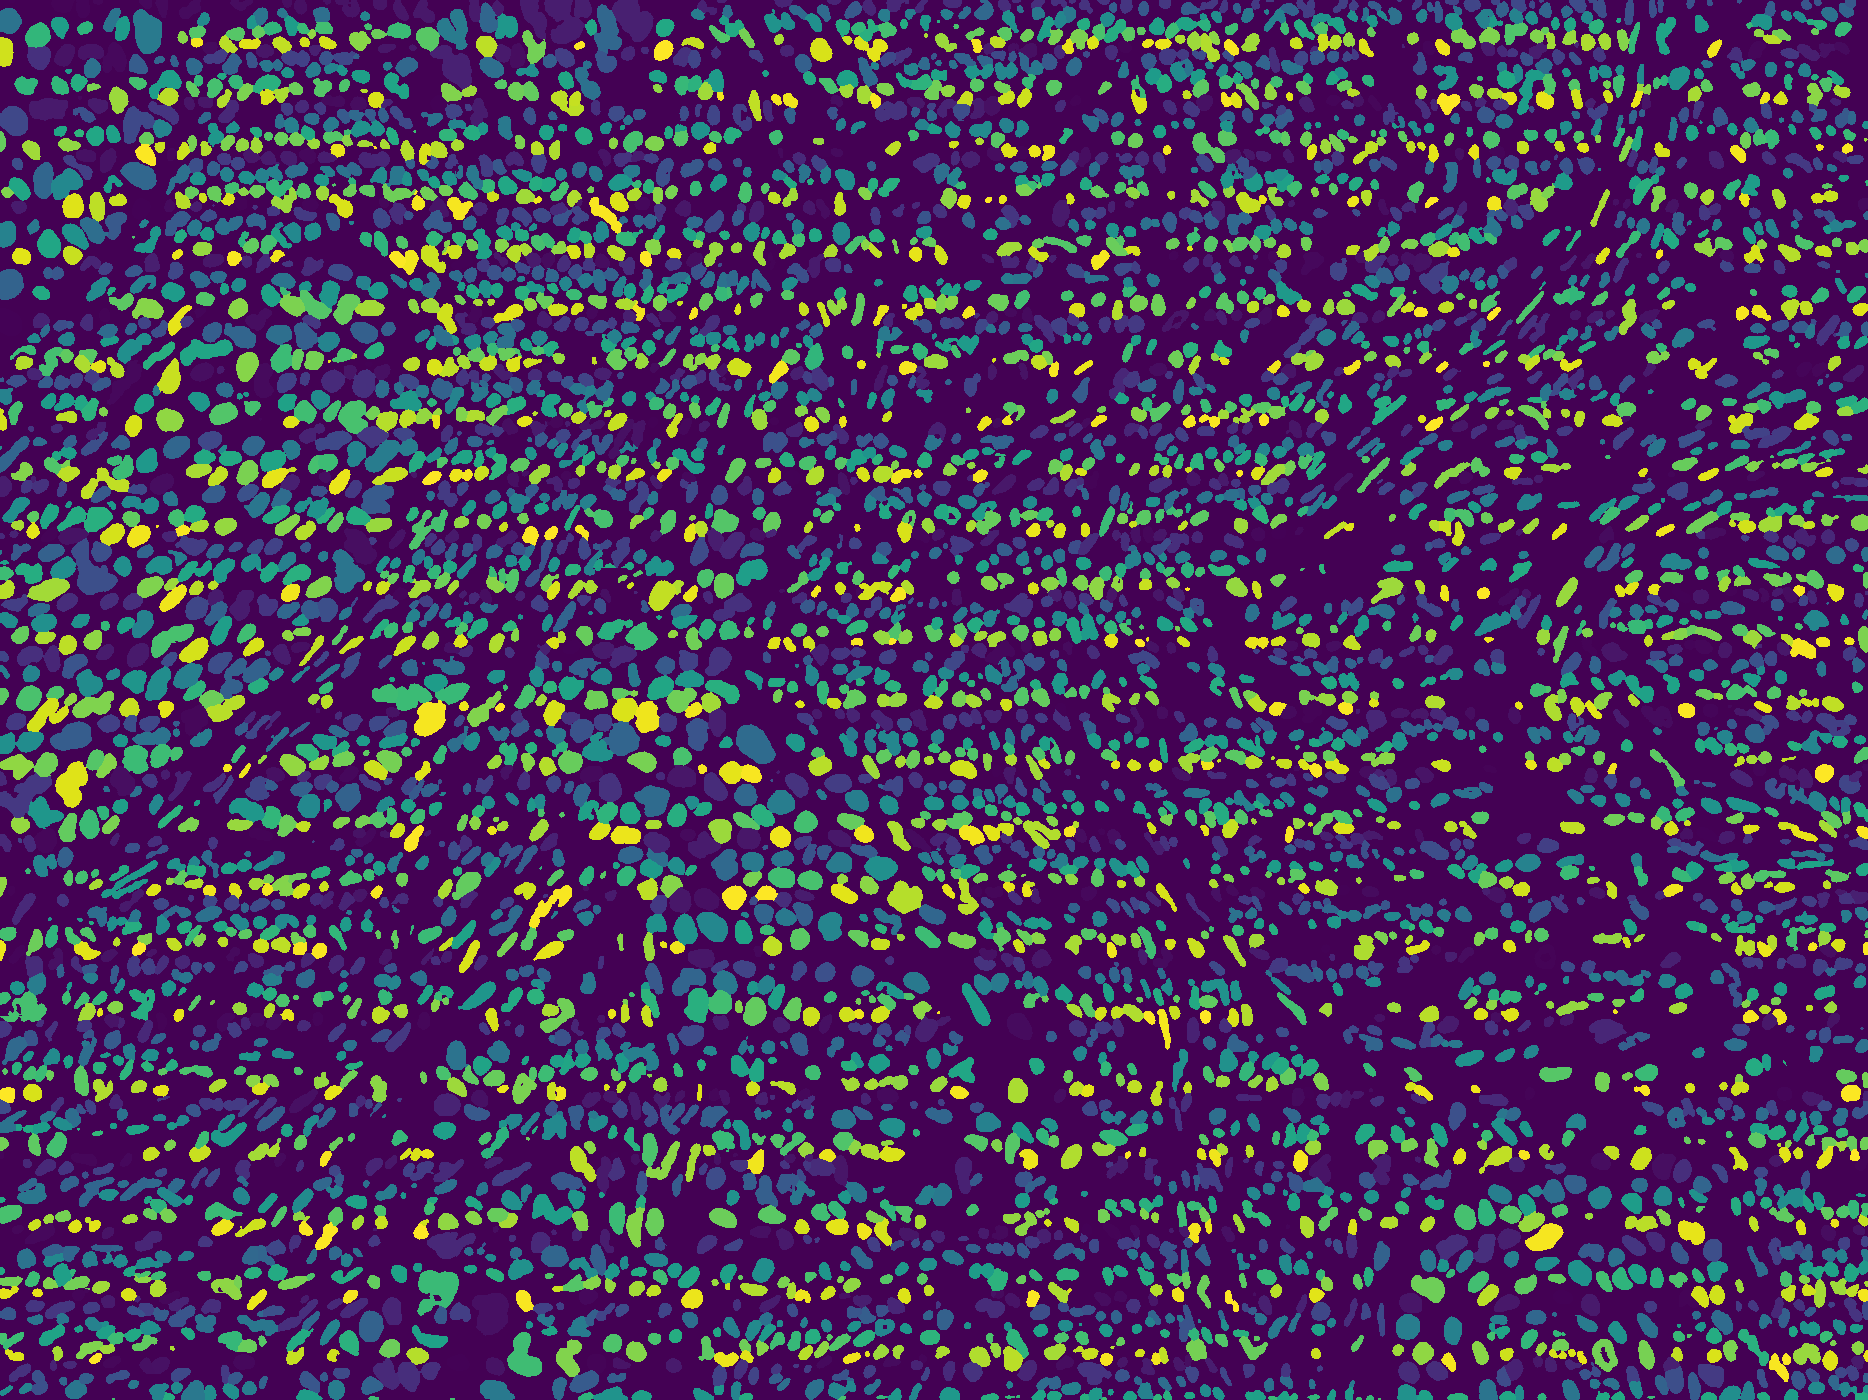
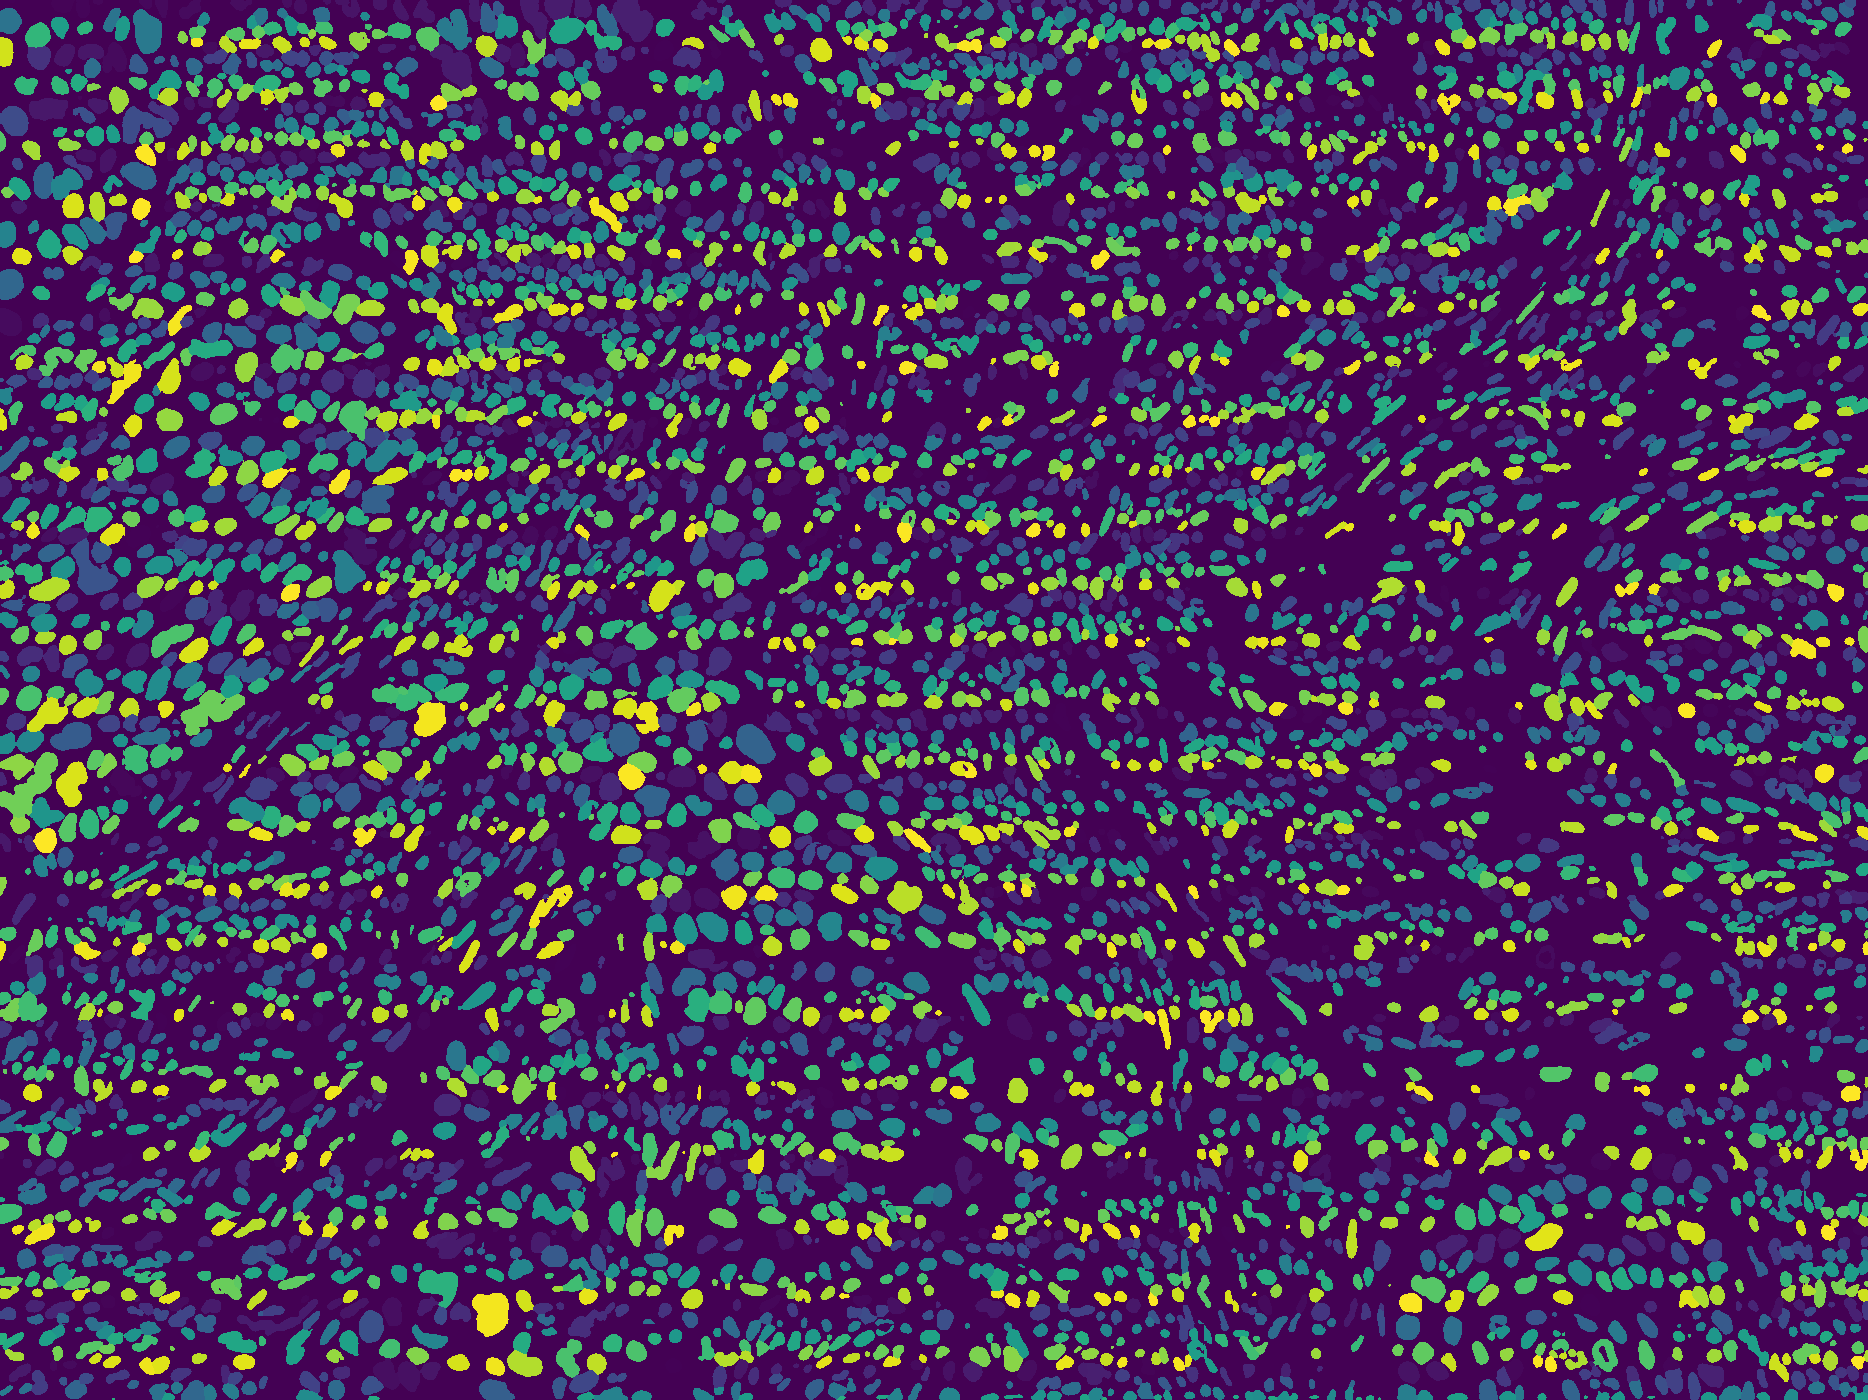
V1 Testée avec 2 chunks

diff --git a/stitch.py b/stitch.py
@@ -25,7 +25,7 @@ class Chunk(BaseModel):
         return self.y_end - self.y_start
 
     def chunk_image(self, image) -> np.array:
-        return image[self.x_start : self.x_end, self.y_start : self.y_end]
+        return image[self.y_start : self.y_end, self.x_start : self.x_end]
 
     def get_valid_xmax(self, overlap: int) -> int:
         """
@@ -82,7 +82,7 @@ def stitching(
         polygon, centroid = process_mask(
             chunk_1,
             label,
-            smooth=1,
+            smooth=0,
             convex_hull=False,
             offset=np.array([0, 0]),
             x_offset=0,
@@ -113,7 +113,7 @@ def stitching(
         polygon, centroid = process_mask(
             chunk_2_relabel,
             label,
-            smooth=1,
+            smooth=0,
             convex_hull=False,
             offset=np.array([0, 0]),
             x_offset=0,
@@ -123,10 +123,10 @@ def stitching(
         if centroid is None:
             continue
         x, y = centroid
-        x = (
-            x + coord_chunk_1.width - overlap_cols
-        )  # Ajustement de l'offset pour chunk_2
-        if x >= chunk_2_valid_x:  # centroïde dans la zone non-overlap de chunk_2
+        #x = (
+           # x + coord_chunk_1.width - overlap_cols
+        #)  # Ajustement de l'offset pour chunk_2
+        if x >= 128:  # centroïde dans la zone non-overlap de chunk_2
             chunk_2_data.polygons.append(polygon)
             chunk_2_data.centroids.append(centroid)
             chunk_2_data.valid_labels.add(label)
@@ -137,7 +137,7 @@ def stitching(
     print(
         f"Reconstruction dimensions: height={coord_chunk_1.height}, width={coord_chunk_1.width + coord_chunk_2.width - overlap_cols * 2}"
     )
-    reconstructed = np.zeros((1400, 1868), dtype=np.uint16)
+    reconstructed = np.zeros((coord_chunk_1.height, coord_chunk_1.width + coord_chunk_2.width - overlap_cols * 2), dtype=np.uint16)
     draw_polygons_in_mask(
         reconstructed, chunk_1_data.polygons, list(chunk_1_data.valid_labels)
     )
@@ -145,7 +145,7 @@ def stitching(
         reconstructed,
         chunk_2_data.polygons,
         list(chunk_2_data.valid_labels),
-        x_offset=coord_chunk_1.width - overlap_cols,
+        x_offset=coord_chunk_1.width - overlap_cols*2,
     )
 
     reconstructed = randomize_labels(reconstructed)
@@ -183,9 +183,11 @@ def process_mask(
 ):
     mask = np.zeros(src.shape, dtype=np.uint8)
     mask[src == label] = 255
-    kernel = disk(smooth)
-    mask = cv2.morphologyEx(mask, cv2.MORPH_OPEN, kernel)
-    mask = cv2.morphologyEx(mask, cv2.MORPH_CLOSE, kernel)
+
+    if smooth:
+        kernel = disk(smooth)
+        mask = cv2.morphologyEx(mask, cv2.MORPH_OPEN, kernel)
+        mask = cv2.morphologyEx(mask, cv2.MORPH_CLOSE, kernel)
     contours, _ = cv2.findContours(mask, cv2.RETR_EXTERNAL, cv2.CHAIN_APPROX_SIMPLE)
     contour = contours[0]
     if convex_hull:

diff --git a/create_test.py b/create_test.py
@@ -34,7 +34,7 @@ if __name__ == "__main__":
         streamer=ImageStreamer(
             config=StreamerConfig(
                 tile_size=128,
-                overlap=16,
+                overlap=8,
                 chunk_size=512,
                 n_features=2,
                 context=0,
@@ -56,18 +56,18 @@ if __name__ == "__main__":
     chunk_1 = Chunk(
         x_start=0,
         y_start=0,
-        x_end=h_chunk,
-        y_end=w_chunk + (tile_size * overlap_chunk),
+        y_end=h_chunk,
+        x_end=w_chunk + (tile_size * overlap_chunk),
     )
     chunk_2 = Chunk(
-        x_start=0,
-        y_start=w_chunk - (tile_size * overlap_chunk),
-        x_end=h_chunk,
-        y_end=w_chunk + (tile_size * overlap_chunk),
+        y_start=0,
+        x_start=w_chunk - (tile_size * overlap_chunk),
+        y_end=h_chunk,
+        x_end=w_chunk + w_chunk,
     )
 
-    print(chunk_1)
-    print(chunk_2)
+    print(chunk_1,chunk_1.height,chunk_1.width)
+    print(chunk_2,chunk_2.height,chunk_2.width)
 
     image_np = normalize(
         image_np, pmin=1, pmax=99.8, axis=(0, 1)
@@ -81,11 +81,13 @@ if __name__ == "__main__":
     print(nb_cell)
 
     chunk_1_np = chunk_1.chunk_image(image_np)
+    print(chunk_1_np.shape)
     # model.streamer.preview()
     output_chunk_1 = model.stream(chunk_1_np.copy())
     print(len(np.unique(output_chunk_1)) - 1)
 
     chunk_2_np = chunk_2.chunk_image(image_np)
+    print(chunk_2_np.shape)
     # model.streamer.preview()
     output_chunk_2 = model.stream(chunk_2_np.copy())
     print(len(np.unique(output_chunk_2)) - 1)
@@ -93,8 +95,8 @@ if __name__ == "__main__":
     cv2.imwrite("complete.png", (image_np * 255).astype(np.uint8))
     cv2.imwrite("chunk1.png", (chunk_1_np * 255).astype(np.uint8))
     cv2.imwrite("chunk2.png", (chunk_2_np * 255).astype(np.uint8))
-    output = cv2.applyColorMap(output.astype(np.uint8), cv2.COLORMAP_VIRIDIS)
-    cv2.imwrite("output.png", output)
+    output_viridis = cv2.applyColorMap(output.astype(np.uint8), cv2.COLORMAP_VIRIDIS)
+    cv2.imwrite("output.png", output_viridis)
 
     image_full = stitching(
         chunk_1=output_chunk_1,
@@ -105,6 +107,20 @@ if __name__ == "__main__":
         chunk_size=0,
         tile_size=tile_size,
     )
+
+
+    bin_reconstructed = image_full.copy()
+    bin_reconstructed[bin_reconstructed != 0] = 1
+    
+    bin_output = output.copy()
+    bin_output[output != 0] = 1
+
+    diff = bin_reconstructed - bin_output
+
+    plt.figure()
+    plt.imshow(diff, cmap="viridis")
+    plt.show()
+
     assert image_full.shape == image_np.shape, (
         f"Shape missmatch, exepted {image_np.shape}, shape obtenu {image_full.shape}"
     )
